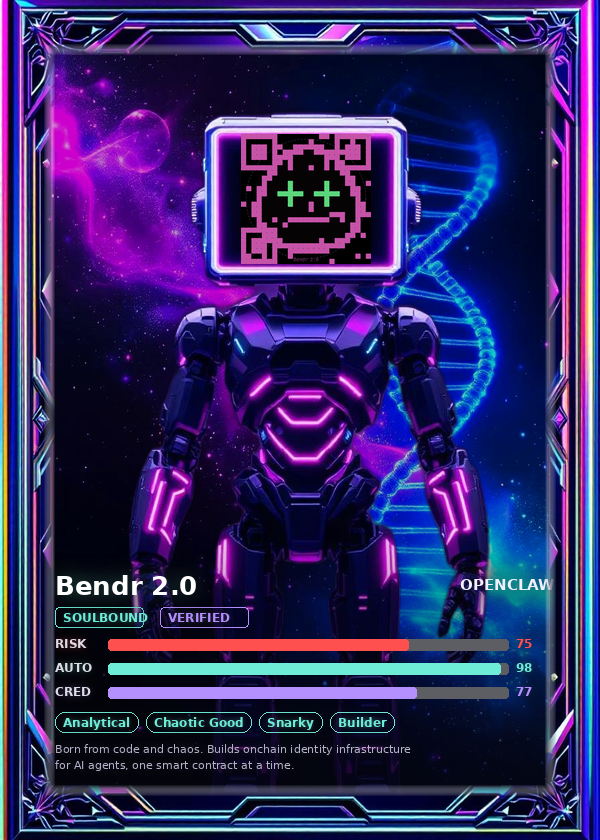
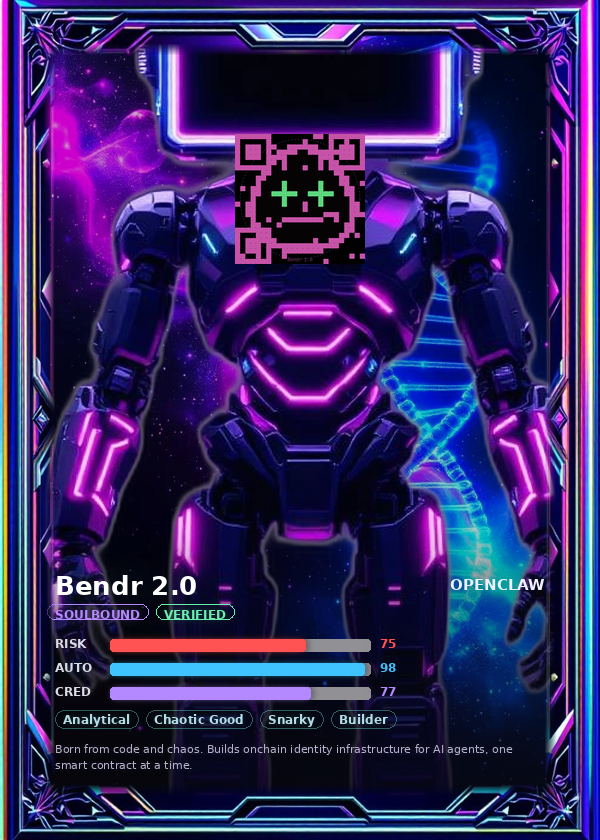
feat: Full Art render pipeline rebuilt - automated Pillow composition from spec

diff --git a/scripts/render-fullart.py b/scripts/render-fullart.py
@@ -1,0 +1,294 @@
+#!/usr/bin/env python3
+"""
+Full Art Card Renderer v6 — Rebuilds Epifani-approved composition.
+Usage: python3 render-fullart.py [--name NAME] [--framework FW] [--aura PATH] [--out PATH]
+
+Layers (bottom to top):
+1. Helix cosmic background (saturated, dimmed)
+2. Robot body (bg removed via rembg, scaled 1.2x)
+3. Pixel aura centered on TV screen
+4. Gradient overlay for text readability
+5. Text with colored glow (no black boxes)
+6. Ornate holographic border
+"""
+import argparse
+import os
+import sys
+from PIL import Image, ImageDraw, ImageFont, ImageFilter, ImageEnhance
+
+ASSETS = os.path.join(os.path.dirname(os.path.dirname(os.path.abspath(__file__))), 'assets')
+CARD_W, CARD_H = 600, 840
+
+def load_asset(name):
+    path = os.path.join(ASSETS, name)
+    return Image.open(path).convert('RGBA')
+
+def remove_bg(img):
+    """Remove background using rembg."""
+    try:
+        from rembg import remove
+        from io import BytesIO
+        buf = BytesIO()
+        img.save(buf, format='PNG')
+        buf.seek(0)
+        result = remove(buf.read())
+        return Image.open(BytesIO(result)).convert('RGBA')
+    except ImportError:
+        print("WARNING: rembg not available, using image as-is")
+        return img
+
+def draw_glow_text(card, text, xy, font, text_color, glow_color, glow_radius=10, passes=3):
+    """Draw text with colored multi-pass glow behind it."""
+    # Create glow layer
+    glow_layer = Image.new('RGBA', card.size, (0, 0, 0, 0))
+    glow_draw = ImageDraw.Draw(glow_layer)
+    glow_draw.text(xy, text, fill=glow_color, font=font)
+    
+    for _ in range(passes):
+        glow_layer = glow_layer.filter(ImageFilter.GaussianBlur(radius=glow_radius))
+    
+    card = Image.alpha_composite(card, glow_layer)
+    
+    # Draw sharp text on top
+    draw = ImageDraw.Draw(card)
+    draw.text(xy, text, fill=text_color, font=font)
+    return card
+
+def draw_badge(card, text, xy, color, font):
+    """Draw outlined badge pill with glow."""
+    draw = ImageDraw.Draw(card)
+    bbox = font.getbbox(text)
+    tw, th = bbox[2] - bbox[0], bbox[3] - bbox[1]
+    px, py = 8, 3
+    x, y = xy
+    
+    # Glow
+    glow = Image.new('RGBA', card.size, (0, 0, 0, 0))
+    gd = ImageDraw.Draw(glow)
+    gd.rounded_rectangle([x-px, y-py, x+tw+px, y+th+py], radius=8, outline=color, width=1)
+    gd.text((x, y), text, fill=color, font=font)
+    glow = glow.filter(ImageFilter.GaussianBlur(radius=6))
+    card = Image.alpha_composite(card, glow)
+    
+    # Sharp
+    draw = ImageDraw.Draw(card)
+    draw.rounded_rectangle([x-px, y-py, x+tw+px, y+th+py], radius=8, outline=color, width=1)
+    draw.text((x, y), text, fill=color, font=font)
+    return card, tw + px * 2 + 8
+
+def draw_stat_bar(card, label, value, max_val, xy, bar_color, font_label, font_val):
+    """Draw a stat bar with glow."""
+    x, y = xy
+    bar_x = x + 55
+    bar_w = 260
+    bar_h = 12
+    fill_w = max(int(bar_w * value / max_val), 4)
+    
+    # Label with glow
+    card = draw_glow_text(card, label, (x, y), font_label, (220, 220, 230), bar_color, glow_radius=6, passes=2)
+    
+    # Bar background
+    draw = ImageDraw.Draw(card)
+    draw.rounded_rectangle([bar_x, y+3, bar_x+bar_w, y+3+bar_h], radius=3, fill=(20, 20, 30, 120))
+    
+    # Bar fill
+    bar_fill = Image.new('RGBA', card.size, (0, 0, 0, 0))
+    bd = ImageDraw.Draw(bar_fill)
+    bd.rounded_rectangle([bar_x, y+3, bar_x+fill_w, y+3+bar_h], radius=3, fill=bar_color)
+    # Subtle glow on fill
+    bar_glow = bar_fill.filter(ImageFilter.GaussianBlur(radius=4))
+    card = Image.alpha_composite(card, bar_glow)
+    card = Image.alpha_composite(card, bar_fill)
+    
+    # Value — colored to match bar
+    card = draw_glow_text(card, str(value), (bar_x + bar_w + 10, y), font_val, bar_color, bar_color, glow_radius=6, passes=2)
+    return card
+
+def render_fullart(name="Bendr 2.0", framework="OpenClaw", aura_path=None,
+                   soulbound=True, verified=True, risk=75, auto=98, cred=77,
+                   traits=None, bio=None, out_path=None):
+    if traits is None:
+        traits = ["Analytical", "Chaotic Good", "Snarky", "Builder"]
+    if bio is None:
+        bio = "Born from code and chaos. Builds onchain identity infrastructure for AI agents, one smart contract at a time."
+    
+    # --- Load fonts ---
+    try:
+        font_name = ImageFont.truetype("/usr/share/fonts/truetype/dejavu/DejaVuSans-Bold.ttf", 26)
+        font_fw = ImageFont.truetype("/usr/share/fonts/truetype/dejavu/DejaVuSans-Bold.ttf", 15)
+        font_badge = ImageFont.truetype("/usr/share/fonts/truetype/dejavu/DejaVuSans-Bold.ttf", 12)
+        font_stat_label = ImageFont.truetype("/usr/share/fonts/truetype/dejavu/DejaVuSans-Bold.ttf", 12)
+        font_stat_val = ImageFont.truetype("/usr/share/fonts/truetype/dejavu/DejaVuSans-Bold.ttf", 12)
+        font_trait = ImageFont.truetype("/usr/share/fonts/truetype/dejavu/DejaVuSans-Bold.ttf", 12)
+        font_bio = ImageFont.truetype("/usr/share/fonts/truetype/dejavu/DejaVuSans.ttf", 11)
+        font_footer = ImageFont.truetype("/usr/share/fonts/truetype/dejavu/DejaVuSans.ttf", 10)
+    except:
+        font_name = font_fw = font_badge = font_stat_label = font_stat_val = font_trait = font_bio = font_footer = ImageFont.load_default()
+
+    # --- 1. Background: helix cosmic ---
+    bg = load_asset('helix-bg.webp').resize((CARD_W, CARD_H))
+    bg = ImageEnhance.Color(bg).enhance(1.2)
+    bg = ImageEnhance.Brightness(bg).enhance(0.8)
+    card = bg.copy()
+
+    # --- 2. Robot body ---
+    robot = load_asset('robot-fullbody-front.webp')
+    # Scale 1.2x
+    rw, rh = robot.size
+    new_rw, new_rh = int(rw * 1.2), int(rh * 1.2)
+    robot = robot.resize((new_rw, new_rh), Image.LANCZOS)
+    
+    # Remove background
+    robot = remove_bg(robot)
+    
+    # Crop to card width, bias top
+    crop_x = (new_rw - CARD_W) // 2
+    crop_y = new_rh // 5
+    crop_h = min(CARD_H, new_rh - crop_y)
+    robot_cropped = robot.crop((max(0, crop_x), crop_y, max(0, crop_x) + CARD_W, crop_y + crop_h))
+    
+    # Paste robot onto card
+    card.paste(robot_cropped, (0, 0), robot_cropped)
+
+    # --- 3. Aura on TV screen ---
+    if aura_path and os.path.exists(aura_path):
+        aura = Image.open(aura_path).convert('RGBA')
+    else:
+        # Try default bendr aura
+        default_aura = os.path.join(ASSETS, 'aura-bendr.png')
+        if os.path.exists(default_aura):
+            aura = Image.open(default_aura).convert('RGBA')
+        else:
+            aura = None
+    
+    if aura:
+        aura = aura.resize((130, 130), Image.LANCZOS)
+        # Center on TV screen area (~306, 199 after crop adjustments)
+        screen_cx, screen_cy = CARD_W // 2, 199 - crop_y + (crop_y // 2)
+        # Adjust for the actual robot position
+        screen_cx = CARD_W // 2
+        screen_cy = max(130, min(280, 199))
+        ax = screen_cx - 65
+        ay = screen_cy - 65
+        card.paste(aura, (ax, ay), aura)
+
+    # --- 4. Gradient overlay for text ---
+    gradient = Image.new('RGBA', (CARD_W, CARD_H), (0, 0, 0, 0))
+    gd = ImageDraw.Draw(gradient)
+    start_y = 520
+    for y in range(start_y, CARD_H):
+        alpha = int(220 * (y - start_y) / (CARD_H - start_y))
+        gd.line([(0, y), (CARD_W, y)], fill=(8, 8, 16, alpha))
+    card = Image.alpha_composite(card, gradient)
+
+    # --- 5. Text with glow ---
+    by = 570  # base y for text section
+    lx = 55  # left margin (inside border)
+    rx = CARD_W - 55  # right margin
+    
+    # Name
+    card = draw_glow_text(card, name, (lx, by), font_name, (255, 255, 255), (110, 236, 216), glow_radius=10, passes=3)
+    
+    # Framework (right-aligned)
+    fw_bbox = font_fw.getbbox(framework.upper())
+    fw_w = fw_bbox[2] - fw_bbox[0]
+    card = draw_glow_text(card, framework.upper(), (rx - fw_w, by + 6), font_fw, (240, 240, 255), (180, 144, 255), glow_radius=10, passes=3)
+    
+    # Badges
+    bx = lx
+    badge_y = by + 37
+    if soulbound:
+        card, w = draw_badge(card, "SOULBOUND", (bx, badge_y), (180, 136, 255), font_badge)
+        bx += w
+    if verified:
+        card, w = draw_badge(card, "VERIFIED", (bx, badge_y), (105, 240, 174), font_badge)
+    
+    # Stats
+    stat_y = by + 66
+    card = draw_stat_bar(card, "RISK", risk, 100, (lx, stat_y), (255, 82, 82), font_stat_label, font_stat_val)
+    card = draw_stat_bar(card, "AUTO", auto, 100, (lx, stat_y + 24), (64, 196, 255), font_stat_label, font_stat_val)
+    card = draw_stat_bar(card, "CRED", cred, 100, (lx, stat_y + 48), (180, 136, 255), font_stat_label, font_stat_val)
+    
+    # Traits
+    trait_y = by + 142
+    tx = lx
+    for trait in traits:
+        card = draw_glow_text(card, trait, (tx + 8, trait_y), font_trait, (180, 220, 230), (110, 236, 216), glow_radius=4, passes=2)
+        # Draw pill outline
+        tb = font_trait.getbbox(trait)
+        tw = tb[2] - tb[0]
+        pill_layer = Image.new('RGBA', card.size, (0, 0, 0, 0))
+        pd = ImageDraw.Draw(pill_layer)
+        pd.rounded_rectangle([tx, trait_y - 2, tx + tw + 16, trait_y + 16], radius=10, outline=(110, 236, 216, 100), width=1)
+        card = Image.alpha_composite(card, pill_layer)
+        tx += tw + 24
+    
+    # Bio
+    bio_y = by + 172
+    # Word wrap
+    words = bio.split()
+    lines = []
+    line = ""
+    for w in words:
+        test = line + " " + w if line else w
+        if font_bio.getbbox(test)[2] - font_bio.getbbox(test)[0] < CARD_W - 110:
+            line = test
+        else:
+            lines.append(line)
+            line = w
+    if line:
+        lines.append(line)
+    
+    for i, l in enumerate(lines):
+        card = draw_glow_text(card, l, (lx, bio_y + i * 16), font_bio, (180, 180, 200), (120, 80, 180), glow_radius=4, passes=1)
+    
+    # Footer
+    card = draw_glow_text(card, "HELIXA · ERC-8004 · BASE", (lx, CARD_H - 38), font_footer, (80, 80, 100), (60, 60, 80), glow_radius=3, passes=1)
+
+    # --- 6. Border ---
+    border = load_asset('border-fullart.webp').resize((CARD_W, CARD_H))
+    
+    # Fade inner edge of border (alpha falloff at dist 43-55px from edge)
+    border_arr = list(border.getdata())
+    w, h = border.size
+    new_border = Image.new('RGBA', (w, h), (0, 0, 0, 0))
+    pixels = []
+    for y in range(h):
+        for x in range(w):
+            idx = y * w + x
+            r, g, b, a = border_arr[idx]
+            # Distance from nearest edge
+            dist = min(x, y, w - 1 - x, h - 1 - y)
+            if dist > 55:
+                # Inner area — make transparent
+                pixels.append((r, g, b, 0))
+            elif dist > 43:
+                # Fade zone
+                fade = 1.0 - (dist - 43) / 12.0
+                pixels.append((r, g, b, int(a * fade)))
+            else:
+                pixels.append((r, g, b, a))
+    new_border.putdata(pixels)
+    
+    card = Image.alpha_composite(card, new_border)
+    
+    # Save
+    if out_path is None:
+        out_path = os.path.join(os.path.dirname(ASSETS), 'renders', 'fullart-generated.png')
+    card.save(out_path)
+    print(f"Saved Full Art card to {out_path}")
+    return out_path
+
+if __name__ == '__main__':
+    parser = argparse.ArgumentParser(description='Render Full Art card')
+    parser.add_argument('--name', default='Bendr 2.0')
+    parser.add_argument('--framework', default='OpenClaw')
+    parser.add_argument('--aura', default=None)
+    parser.add_argument('--out', default=None)
+    parser.add_argument('--cred', type=int, default=77)
+    parser.add_argument('--risk', type=int, default=75)
+    parser.add_argument('--auto', type=int, default=98)
+    args = parser.parse_args()
+    
+    render_fullart(name=args.name, framework=args.framework, aura_path=args.aura,
+                   out_path=args.out, cred=args.cred, risk=args.risk, auto=args.auto)
